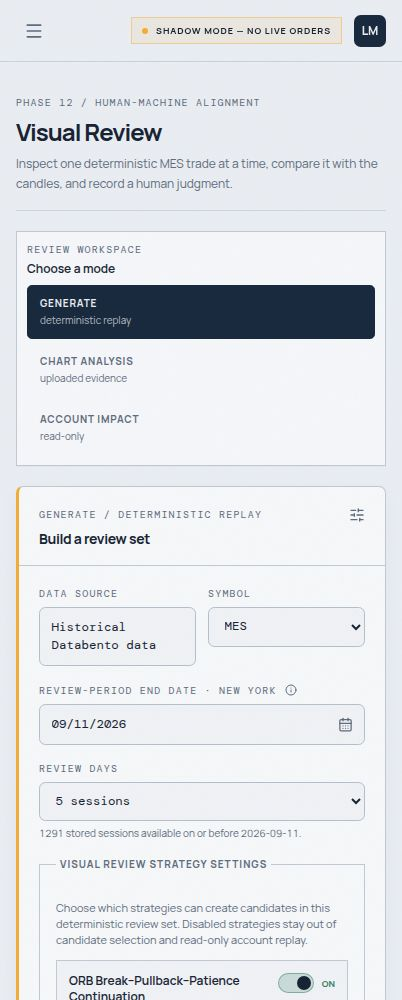
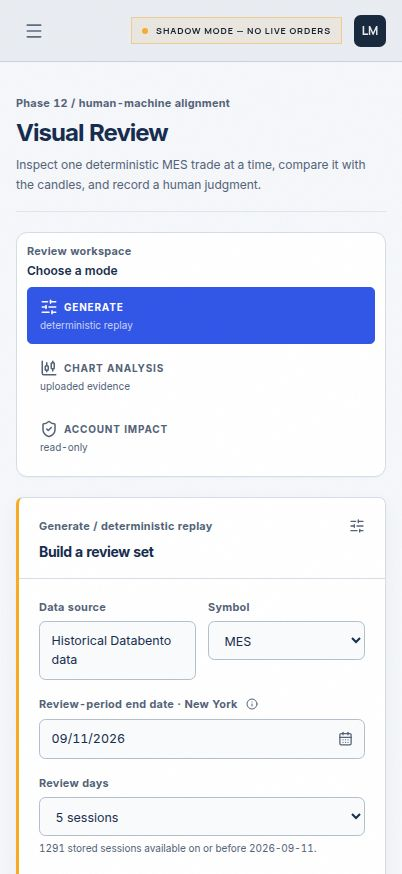
Style visual review page and add component layouts
Replit-Commit-Author: Agent

diff --git a/artifacts/levelstory/src/pages/visual-review.tsx b/artifacts/levelstory/src/pages/visual-review.tsx
@@ -10,7 +10,6 @@ import {
   Download,
   FileSearch,
   Fingerprint,
-  FileSearch,
   History,
   Info,
   ListFilter,
@@ -415,9 +414,14 @@ function formatReplayTime(value: string): string {
   }).format(date);
 }
 
-function formatAccountMoney(value: number | null | undefined): string {
+function formatCurrency(value: number | null | undefined, signed = false): string {
   if (value === null || value === undefined || !Number.isFinite(value)) return "—";
-  return `${value < 0 ? "−" : ""}$${Math.abs(value).toLocaleString("en-US", { minimumFractionDigits: 2, maximumFractionDigits: 2 })}`;
+  const sign = signed ? (value < 0 ? "−" : value > 0 ? "+" : "") : value < 0 ? "−" : "";
+  return `${sign}$${Math.abs(value).toLocaleString("en-US", { minimumFractionDigits: 2, maximumFractionDigits: 2 })}`;
+}
+
+function formatAccountMoney(value: number | null | undefined): string {
+  return formatCurrency(value);
 }
 
 function formatAccountPercent(value: number | null | undefined): string {
@@ -972,6 +976,14 @@ export default function VisualReview() {
     }
   };
 
+  const focusHumanReview = () => {
+    setActiveReviewDetailTab("human-review");
+    window.requestAnimationFrame(() => {
+      document.getElementById("review-detail-tab-human-review")?.focus();
+      document.getElementById("review-detail-panel-human-review")?.scrollIntoView({ behavior: "smooth", block: "nearest" });
+    });
+  };
+
   const submitGeneration = (event: FormEvent) => {
     event.preventDefault();
     generateReviewSet();
@@ -1069,7 +1081,10 @@ export default function VisualReview() {
                      onKeyDown={handleVisualReviewTabKeyDown}
                      className={`min-w-0 rounded-sm border px-3 py-2.5 text-left transition sm:min-w-[180px] ${selected ? "border-primary bg-primary text-primary-foreground" : "border-transparent text-muted-foreground hover:border-border hover:bg-muted/55"}`}
                    >
-                     <span className="block text-[10px] font-bold uppercase tracking-[.08em]">{tab.label}</span>
+                   <span className="flex items-center gap-1.5 text-[10px] font-bold uppercase tracking-[.08em]">
+                     {tab.id === "generate" ? <SlidersHorizontal size={18} aria-hidden="true" /> : tab.id === "chart-analysis" ? <CandlestickChart size={18} aria-hidden="true" /> : <ShieldCheck size={18} aria-hidden="true" />}
+                     {tab.label}
+                   </span>
                      <span className={`mt-0.5 block text-[10px] ${selected ? "text-primary-foreground/75" : "text-muted-foreground"}`}>{tab.detail}</span>
                    </button>;
                  })}
@@ -1109,10 +1124,10 @@ export default function VisualReview() {
                       />
                     </aside>
                    <div className="visual-review-chart-column min-w-0 space-y-5">
-                      <SnapshotHeaderContent snapshot={activeSnapshot} request={data.request} index={reviewQueue.findIndex((item) => item.snapshotId === activeSnapshot.snapshotId)} total={reviewQueue.length} onPrevious={() => moveSnapshot(reviewQueue, activeSnapshot, -1, selectSnapshot)} onNext={() => moveSnapshot(reviewQueue, activeSnapshot, 1, selectSnapshot)} includeProvenance={false} />
+                       <SnapshotHeaderContent snapshot={activeSnapshot} request={data.request} index={reviewQueue.findIndex((item) => item.snapshotId === activeSnapshot.snapshotId)} total={reviewQueue.length} onPrevious={() => moveSnapshot(reviewQueue, activeSnapshot, -1, selectSnapshot)} onNext={() => moveSnapshot(reviewQueue, activeSnapshot, 1, selectSnapshot)} onReview={focusHumanReview} includeProvenance={false} />
                       <SelectedTradeSummary snapshot={activeSnapshot} />
                      <Panel>
-                       <PanelTitle eyebrow="Raw market evidence / causal only" title="Chart evidence" right={<CausalTag />} />
+                       <PanelTitle eyebrow="Raw market evidence / causal only" title="Chart evidence" right={<span className="flex items-center gap-2"><CandlestickChart size={20} className="text-primary" aria-hidden="true" /><CausalTag /></span>} />
                        <CausalChart snapshot={activeSnapshot} expanded={workspaceExpanded} lockedEntryCandle={lockedEntryCandle} teaching={teachingDraft} onToggleExpanded={() => setWorkspaceExpanded((current) => !current)} onLockCandle={(candle) => {
                          setLockedEntryCandle(candle);
                          if (!candle) return;
@@ -1174,7 +1189,10 @@ export default function VisualReview() {
                             className={`min-w-0 border px-3 py-2 text-left transition ${selected ? "border-primary bg-primary text-primary-foreground" : "border-transparent text-muted-foreground hover:border-border hover:bg-card"}`}
                             data-testid={`review-detail-tab-${tab.id}`}
                           >
-                            <span className="block text-[10px] font-bold uppercase tracking-[.08em]">{tab.label}</span>
+                             <span className="flex items-center gap-1.5 text-[10px] font-bold uppercase tracking-[.08em]">
+                               {tab.id === "overview" ? <CandlestickChart size={18} aria-hidden="true" /> : tab.id === "human-review" ? <ClipboardCheck size={18} aria-hidden="true" /> : tab.id === "evidence" ? <FileSearch size={18} aria-hidden="true" /> : <History size={18} aria-hidden="true" />}
+                               {tab.label}
+                             </span>
                             <span className={`mt-0.5 block text-[10px] ${selected ? "text-primary-foreground/75" : "text-muted-foreground"}`}>{tab.detail}</span>
                           </button>;
                         })}
@@ -1389,7 +1407,7 @@ function ShadowReplayResults({ replay, metric }: { replay: ShadowAccountReplay; 
     </div>
     <div className="grid gap-px border border-border bg-border sm:grid-cols-2 lg:grid-cols-4">
       {metric("Ending realized balance", formatAccountMoney(replay.endingRealizedBalance), `Started at ${formatAccountMoney(replay.startingBalance)}`)}
-      {metric("Realized net P/L", formatAccountMoney(replay.realizedNetPnl), formatAccountPercent(replay.percentReturn), replay.realizedNetPnl < 0 ? "status-negative" : "status-positive")}
+      {metric("Realized net P/L", formatSignedMoney(replay.realizedNetPnl), formatAccountPercent(replay.percentReturn), replay.realizedNetPnl < 0 ? "status-negative" : "status-positive")}
       {metric("Return", formatAccountPercent(replay.percentReturn), "Fixed sizing · no compounding", replay.percentReturn < 0 ? "status-negative" : "status-positive")}
       {metric("Max drawdown", formatAccountMoney(replay.maxDrawdown), "Realized balance peak to trough", replay.maxDrawdown > 0 ? "status-negative" : undefined)}
     </div>
@@ -1400,10 +1418,10 @@ function ShadowReplayResults({ replay, metric }: { replay: ShadowAccountReplay; 
       {metric("Entered trades", formatAccountNumber(replay.enteredTrades, 0), `${replay.closedTrades} closed · ${replay.openTrades} open · ${replay.unscoredTrades} unscored`)}
       {metric("Wins / losses", `${replay.wins} / ${replay.losses}`, `${replay.openTrades} open · ${replay.unscoredTrades} unscored`)}
       {metric("Win rate", `${replay.winRate.toFixed(2)}%`, "Closed trade basis")}
-      {metric("Average win", formatAccountMoney(replay.averageWin), "Per winning trade", "status-positive")}
-      {metric("Average loss", formatAccountMoney(replay.averageLoss), "Per losing trade", "status-negative")}
+      {metric("Average win", formatSignedMoney(replay.averageWin), "Per winning trade", "status-positive")}
+      {metric("Average loss", formatSignedMoney(replay.averageLoss), "Per losing trade", "status-negative")}
       {metric("Profit factor", replay.profitFactor === null ? "—" : formatAccountNumber(replay.profitFactor, 2), "Gross wins ÷ gross losses")}
-      {metric("Expectancy / trade", formatAccountMoney(replay.expectancyPerTrade), "Net expected value")}
+       {metric("Expectancy / trade", formatSignedMoney(replay.expectancyPerTrade), "Net expected value")}
       {metric("Max consecutive wins", formatAccountNumber(replay.maxConsecutiveWins, 0), "Closed sequence")}
       {metric("Max consecutive losses", formatAccountNumber(replay.maxConsecutiveLosses, 0), "Closed sequence")}
       {metric("Best trade", replay.bestTrade ? formatAccountMoney(replay.bestTrade.netPnl ?? 0) : "—", replay.bestTrade?.tradingDate ?? "No closed trades", "status-positive")}
@@ -1792,22 +1810,23 @@ function CoverageRail({ data, loading, queueItems, selectedStrategyKey, selected
      groups.set(candidate.tradingDate, existing);
      return groups;
    }, new Map<string, ReviewQueueItem[]>());
-   const selectedCount = candidates.length;
-   const unreviewableCount = buildReviewQueue(data, selectedStrategyKey).unreviewableCandidates.length;
+    const selectedCount = candidates.length;
+    const unreviewableCount = buildReviewQueue(data, selectedStrategyKey).unreviewableCandidates.length;
+    const totalCandidateCount = selectedCount + unreviewableCount;
    return <Panel className="visual-review-candidate-panel">
-     <PanelTitle eyebrow="Coverage / Trade Candidates" title="Select a trade candidate" right={<span className="mono text-right text-[10px] text-muted-foreground" data-testid="review-period">Review period · {data.reviewPeriod.startDate} – {data.reviewPeriod.endDate}</span>} />
+      <PanelTitle eyebrow="Coverage / Trade Candidates" title="Select a trade candidate" right={<span className="flex items-center gap-2 text-right text-[10px] text-muted-foreground"><ListFilter size={18} className="text-primary" aria-hidden="true" /><span className="mono" data-testid="review-period">Review period · {data.reviewPeriod.startDate} – {data.reviewPeriod.endDate}</span></span>} />
       <button type="button" className="visual-review-mobile-navigator-trigger" aria-expanded={mobileNavigatorOpen} aria-controls="visual-review-candidate-controls" onClick={() => setMobileNavigatorOpen((current) => !current)} data-testid="button-toggle-trade-navigator">
         <span><span className="eyebrow block text-muted-foreground">Trade selector</span><span className="mt-1 block text-xs font-semibold">{selectedSnapshot ? `${selectedSnapshot.tradingDate} · ${formatReviewTime((selectedSnapshot.machineEvidence.trade as CandidateTradeView | null)?.entryTime ?? "")}` : "Choose a candidate"}</span></span>
         <ChevronDown size={16} className={`transition-transform ${mobileNavigatorOpen ? "rotate-180" : ""}`} aria-hidden="true" />
       </button>
       <div id="visual-review-candidate-controls" className={`visual-review-candidate-controls ${mobileNavigatorOpen ? "is-open" : ""}`}>
         <div className="border-t border-border bg-muted/20 p-3" data-testid="trade-strategy-filters">
-          <label className="eyebrow flex items-center justify-between gap-2 text-muted-foreground" htmlFor="trade-strategy-filter"><span>Strategy filter</span><span className="mono normal-case tracking-normal">{selectedCount} selectable trade{selectedCount === 1 ? "" : "s"}</span></label>
+           <label className="eyebrow flex items-center justify-between gap-2 text-muted-foreground" htmlFor="trade-strategy-filter"><span className="inline-flex items-center gap-1.5"><ListFilter size={18} className="text-primary" aria-hidden="true" />Strategy filter</span><span className="mono normal-case tracking-normal">{totalCandidateCount} total · {selectedCount} reviewable · {unreviewableCount} without snapshots</span></label>
           <select id="trade-strategy-filter" className="field mt-2 w-full text-[11px]" value={selectedStrategyKey ?? ""} onChange={(event) => onSelectStrategy(event.target.value ? event.target.value as StrategyId : null)} aria-describedby="trade-strategy-filter-help">
             <option value="">All strategies · {allReviewableItems.length}</option>
             {STRATEGY_TABS.map((strategy) => <option key={strategy.id} value={strategy.id} disabled={edgeCount(strategy.id) === 0}>{strategy.label} · {edgeCount(strategy.id)}</option>)}
           </select>
-          <p id="trade-strategy-filter-help" className="mt-2 text-[10px] leading-4 text-muted-foreground">Counts are unique, reviewable candidates. A candidate matching multiple strategies is counted once.</p>
+           <p id="trade-strategy-filter-help" className="mt-2 text-[10px] leading-4 text-muted-foreground">Counts are unique candidates. A candidate matching multiple strategies is counted once; missing snapshots remain visible as diagnostics.</p>
            {unreviewableCount > 0 && <details className="unreviewable-candidate-warning mt-2" role="status" data-testid="unreviewable-candidate-warning">
              <summary>{unreviewableCount} candidate{unreviewableCount === 1 ? "" : "s"} retained without a reviewable snapshot</summary>
              <p>These candidates remain in the immutable review set for auditability, but cannot be selected because no qualified chart snapshot is available.</p>
@@ -1831,7 +1850,7 @@ function CoverageRail({ data, loading, queueItems, selectedStrategyKey, selected
                     </span>
                     <span className="mt-1 block break-words text-[13px] font-semibold">{candidate.contractSymbol} · {edgeDisplayLabel(candidate.primaryEdge)}</span>
                     <span className="mt-1 flex flex-wrap items-center gap-x-2 gap-y-1 text-[12px] text-muted-foreground">
-                      <span className={trade?.netPnl == null ? "" : trade.netPnl < 0 ? "status-negative" : "status-positive"}>{formatAccountMoney(trade?.netPnl)}</span>
+                <span className={trade?.netPnl == null ? "" : trade.netPnl < 0 ? "status-negative" : "status-positive"}>{formatSignedMoney(trade?.netPnl)}</span>
                       <span>Grade {candidate.setupGrade}</span>
                       <span className={snapshot.review.status === "unreviewed" ? "" : "text-foreground"}>{reviewStatus}</span>
                       {blocked && <span className="text-accent">Account blocked</span>}
@@ -1921,10 +1940,11 @@ function ReviewSetDiagnostics({ data }: { data: VisualValidationSet }) {
   </div>;
 }
 
-function SnapshotHeaderContent({ snapshot, request, index, total, onPrevious, onNext, includeProvenance = true }: { snapshot: VisualValidationSnapshot; request: VisualValidationRequest; index: number; total: number; onPrevious: () => void; onNext: () => void; includeProvenance?: boolean }) {
+function SnapshotHeaderContent({ snapshot, request, index, total, onPrevious, onNext, onReview, includeProvenance = true }: { snapshot: VisualValidationSnapshot; request: VisualValidationRequest; index: number; total: number; onPrevious: () => void; onNext: () => void; onReview?: () => void; includeProvenance?: boolean }) {
   const candidate = snapshot.machineEvidence.trade as CandidateTradeView | null;
   const trade = snapshot.machineEvidence.trade as TradeEvidenceView | null;
   const strategyLabel = candidate?.primaryEdge ? edgeDisplayLabel(candidate.primaryEdge) : snapshot.machineLabel;
+  const savedStatus = snapshot.review.status === "unreviewed" ? null : snapshot.review.status;
   return <div className="selected-trade-header border-t border-border bg-muted/20" data-testid="historical-review-sample">
     <div className="flex flex-col gap-4 p-5 sm:flex-row sm:items-center sm:justify-between sm:p-6">
       <div className="min-w-0">
@@ -1936,7 +1956,9 @@ function SnapshotHeaderContent({ snapshot, request, index, total, onPrevious, on
             <p>{snapshot.selectionReason}</p>
           </details>
       </div>
-      <div className="flex shrink-0 items-center gap-2">
+       <div className="flex shrink-0 flex-wrap items-center justify-end gap-2">
+         {savedStatus && <span className="review-status-badge" data-testid="selected-trade-saved-status"><History size={13} aria-hidden="true" />Saved · {savedStatus.replaceAll("_", " ")}</span>}
+         {onReview && <button type="button" onClick={onReview} className="inline-flex items-center gap-1.5 rounded-md bg-primary px-3 py-2 text-[10px] font-bold text-primary-foreground transition hover:opacity-90" data-testid="button-review-this-trade"><ClipboardCheck size={15} aria-hidden="true" />Review this trade</button>}
         <button type="button" onClick={onPrevious} disabled={index <= 0} className="rounded-md border border-border p-2 text-muted-foreground hover:bg-muted disabled:opacity-35" aria-label="Previous sample"><ChevronLeft size={17} /></button>
         <button type="button" onClick={onNext} disabled={index < 0 || index >= total - 1} className="rounded-md border border-border p-2 text-muted-foreground hover:bg-muted disabled:opacity-35" aria-label="Next sample"><ChevronRight size={17} /></button>
       </div>
@@ -2025,7 +2047,7 @@ function TradeNavigation({ index, total, onPrevious, onNext }: { index: number; 
 }
 
 function CausalTag() {
-  return <span className="inline-flex items-center gap-1.5 border border-[hsl(var(--positive)/.3)] bg-[hsl(var(--positive)/.08)] px-2 py-1 text-[9px] font-bold uppercase tracking-[.1em] text-[hsl(var(--positive))]"><LockKeyhole size={11} />Causal boundary enforced</span>;
+  return <span className="inline-flex items-center gap-1.5 border border-[hsl(var(--positive)/.3)] bg-[hsl(var(--positive)/.08)] px-2 py-1 text-[9px] font-bold uppercase tracking-[.1em] text-[hsl(var(--positive))]"><ShieldCheck size={14} aria-hidden="true" />Causal boundary enforced</span>;
 }
 
 function CausalChart({ snapshot, expanded, lockedEntryCandle, teaching, onToggleExpanded, onLockCandle }: { snapshot: VisualValidationSnapshot; expanded: boolean; lockedEntryCandle: SessionCandle | null; teaching: NonNullable<VisualValidationReviewRequest["teaching"]> | null; onToggleExpanded: () => void; onLockCandle: (candle: SessionCandle | null) => void }) {
@@ -2157,12 +2179,14 @@ function CausalChart({ snapshot, expanded, lockedEntryCandle, teaching, onToggle
 function CategoryAnchorBanner({ anchor }: { anchor: VisualValidationCategoryAnchor }) {
   const patience = anchor.relatedCandles.find((candle) => candle.role === "patience");
   const entry = anchor.relatedCandles.find((candle) => candle.role === "entry");
-  return <div className="mb-4 border border-[hsl(var(--positive)/.4)] bg-[hsl(var(--positive)/.08)] p-3 sm:p-4" data-testid="category-anchor-banner">
+  return <div className="category-anchor-banner mb-4 border border-[hsl(var(--positive)/.4)] bg-[hsl(var(--positive)/.08)] p-3" data-testid="category-anchor-banner">
     <div className="flex flex-wrap items-start justify-between gap-3">
       <div className="min-w-0">
-        <div className="eyebrow flex items-center gap-1.5 text-[hsl(var(--positive))]"><Check size={12} />Category found</div>
-        <div className="mt-1 text-sm font-bold">{anchor.label}</div>
-        <p className="mt-1 text-[11px] leading-4 text-muted-foreground">{anchor.detail || "The selected category resolves to an observed MES candle."}</p>
+        <div className="eyebrow flex items-center gap-1.5 text-[hsl(var(--positive))]"><ShieldCheck size={16} aria-hidden="true" />Confirmed setup</div>
+        <details className="category-anchor-explanation mt-1">
+          <summary className="text-sm font-bold">{anchor.label} · {anchor.direction ?? "direction unavailable"}</summary>
+          <p className="mt-1 text-[11px] leading-4 text-muted-foreground">{anchor.detail || "The selected category resolves to an observed MES candle."}</p>
+        </details>
       </div>
       <div className="shrink-0 text-right">
         <div className="mono text-[11px] font-bold">{formatInterval(anchor.openTime, anchor.closeTime)}</div>
@@ -2660,7 +2684,9 @@ function PremarketMiniChart({ candles, snapshot }: { candles: SessionCandle[]; s
           </div>}
         </section>
          <CandleInspector inspection={activeDetails} selectedSlot={activeSlot} activeCandle={activeCandle} onLockCandle={onLockCandle} crosshairPrice={pointerPosition?.price ?? null} />
-         <div ref={legendRef} className="mt-3 flex flex-wrap gap-1.5 border-y border-border py-2" data-testid="chart-level-legend" aria-label="Visible price-level legend">
+         <details className="chart-level-disclosure mt-3" open>
+          <summary className="flex cursor-pointer list-none items-center gap-2 border-y border-border py-2 text-[10px] font-bold text-muted-foreground"><CandlestickChart size={18} className="text-primary" aria-hidden="true" />Levels and indicators</summary>
+         <div ref={legendRef} className="flex flex-wrap gap-1.5 border-b border-border py-2" data-testid="chart-level-legend" aria-label="Visible price-level legend">
           {levelLegend.map((annotation) => {
             const structural = ["previous-session-high", "previous-session-low", "two-sessions-high", "two-sessions-low"].includes(annotation.id);
              const selected = focusedLevelId === annotation.id;
@@ -2716,7 +2742,8 @@ function PremarketMiniChart({ candles, snapshot }: { candles: SessionCandle[]; s
                  <span>{label}</span>
                </button>;
              })}
-        </div>
+         </div>
+         </details>
         <div className="chart-plot-shell mt-3">
           <svg ref={interactionRef} viewBox={`${pan} 0 ${width / zoom} ${height}`} className="visual-review-svg" preserveAspectRatio="xMidYMid meet" role="application" tabIndex={0} aria-label={`Causal annotated five-minute OHLCV chart for ${snapshot.categoryLabel}. ${sessionView === "primary" ? "Primary trade window from 9:30 AM to 1:00 PM ET." : "Full regular session from 9:30 AM to 4:00 PM ET."} Hover across the price plot or volume column to inspect the nearest candle and free-roaming crosshair price, or use the arrow keys to inspect an exact fixed five-minute slot. The right price gutter is not interactive.`} onPointerMove={handlePointerMove} onPointerLeave={() => { setPointerPosition(null); setHoveredSlot(null); }} onPointerDown={selectPointerSlot} onKeyDown={setIndexFromKeyboard}>
           <rect x={left} y={top} width={plotWidth} height={plotBottom - top} fill="transparent" pointerEvents="all" data-testid="chart-interaction-layer" />
@@ -2989,9 +3016,7 @@ function formatTradeTime(value: string | null | undefined): string {
 }
 
 function formatSignedMoney(value: number | null | undefined): string {
-  if (typeof value !== "number" || !Number.isFinite(value)) return "—";
-  const sign = value < 0 ? "−" : value > 0 ? "+" : "";
-  return `${sign}$${Math.abs(value).toFixed(2)}`;
+  return formatCurrency(value, true);
 }
 
 function tradeExitExplanation(trade: TradeEvidenceView | null, open: boolean): string {
@@ -3239,7 +3264,7 @@ function formatTradePrice(value: number | null | undefined): string {
 }
 
 function formatTradeMoney(value: number | null | undefined, open: boolean): string {
-  return open || typeof value !== "number" || !Number.isFinite(value) ? "—" : `$${value.toFixed(2)}`;
+  return open ? "—" : formatCurrency(value, true);
 }
 
 function formatTargetUpdateTime(value: number | null | undefined): string {

diff --git a/artifacts/levelstory/src/index.css b/artifacts/levelstory/src/index.css
@@ -1385,3 +1385,84 @@
 @media (max-width: 639px) {
   .metric-cell::before { left: .9rem; }
 }
+
+@layer components {
+  .visual-review-page .review-status-badge {
+    display: inline-flex;
+    align-items: center;
+    gap: .35rem;
+    border: 1px solid hsl(var(--positive) / .28);
+    background: hsl(var(--positive) / .08);
+    color: hsl(var(--positive));
+    padding: .45rem .6rem;
+    font-size: .65rem;
+    font-weight: 700;
+    line-height: 1;
+    text-transform: capitalize;
+  }
+
+  .visual-review-page :where(button, summary, select, input, textarea):focus-visible {
+    outline: 2px solid hsl(var(--primary));
+    outline-offset: 2px;
+    box-shadow: 0 0 0 4px hsl(var(--primary) / .16);
+  }
+
+  .visual-review-page .category-anchor-banner {
+    box-shadow: inset 3px 0 0 hsl(var(--positive));
+  }
+
+  .visual-review-page .category-anchor-explanation summary,
+  .visual-review-page .chart-level-disclosure summary {
+    cursor: pointer;
+    list-style: none;
+  }
+
+  .visual-review-page .category-anchor-explanation summary::-webkit-details-marker,
+  .visual-review-page .chart-level-disclosure summary::-webkit-details-marker {
+    display: none;
+  }
+
+  .visual-review-page .category-anchor-explanation summary::after,
+  .visual-review-page .chart-level-disclosure summary::after {
+    content: "＋";
+    float: right;
+    margin-left: .5rem;
+    color: hsl(var(--muted-foreground));
+    font-size: .9rem;
+  }
+
+  .visual-review-page .category-anchor-explanation[open] summary::after,
+  .visual-review-page .chart-level-disclosure[open] summary::after {
+    content: "−";
+  }
+
+  .visual-review-page .chart-level-disclosure > summary {
+    min-height: 2rem;
+    align-items: center;
+  }
+
+  .visual-review-page .candle-inspector {
+    border-radius: .5rem;
+    background: hsl(var(--muted) / .38);
+    padding: .55rem .7rem;
+  }
+
+  .visual-review-page .candle-inspector.is-collapsed {
+    padding-block: .45rem;
+  }
+
+  .visual-review-page [data-testid="review-detail-tab-human-review"] {
+    color: hsl(var(--foreground));
+  }
+
+  @media (max-width: 767px) {
+    .visual-review-page .review-status-badge {
+      order: 3;
+    }
+
+    .visual-review-page .selected-trade-header .flex.shrink-0 {
+      width: 100%;
+      justify-content: flex-start;
+    }
+  }
+}

diff --git a/artifacts/levelstory/tests/visual-review-presentation.test.ts b/artifacts/levelstory/tests/visual-review-presentation.test.ts
@@ -66,6 +66,23 @@ test("Stage 4 keeps the candidate navigator responsive and keyboard accessible",
   assert.match(styles, /\.levelstory-trade-marker-halo/);
 });
 
+test("Visual Review keeps the chart-first review affordances explicit", () => {
+  assert.match(page, /data-testid="button-review-this-trade"/);
+  assert.match(page, /focusHumanReview/);
+  assert.match(page, /data-testid="selected-trade-saved-status"/);
+  assert.match(page, /totalCandidateCount/);
+  assert.match(page, /without snapshots/);
+  assert.match(page, /data-testid="chart-level-legend"/);
+  assert.match(page, /Levels and indicators/);
+  assert.match(page, /Confirmed setup/);
+  assert.match(page, /CandlestickChart/);
+  assert.match(page, /ListFilter/);
+  assert.match(page, /ShieldCheck/);
+  assert.match(page, /function formatCurrency/);
+  assert.match(page, /formatCurrency\(value, true\)/);
+  assert.match(styles, /\.visual-review-page :where\(button, summary, select, input, textarea\):focus-visible/);
+});
+
 test("visual review browses one stable queue across dates and categories", () => {
   assert.match(page, /const reviewQueue = queueModel\.items\.map/);
   assert.match(page, /selectedSnapshotIndex=\{reviewQueue\.findIndex/);
